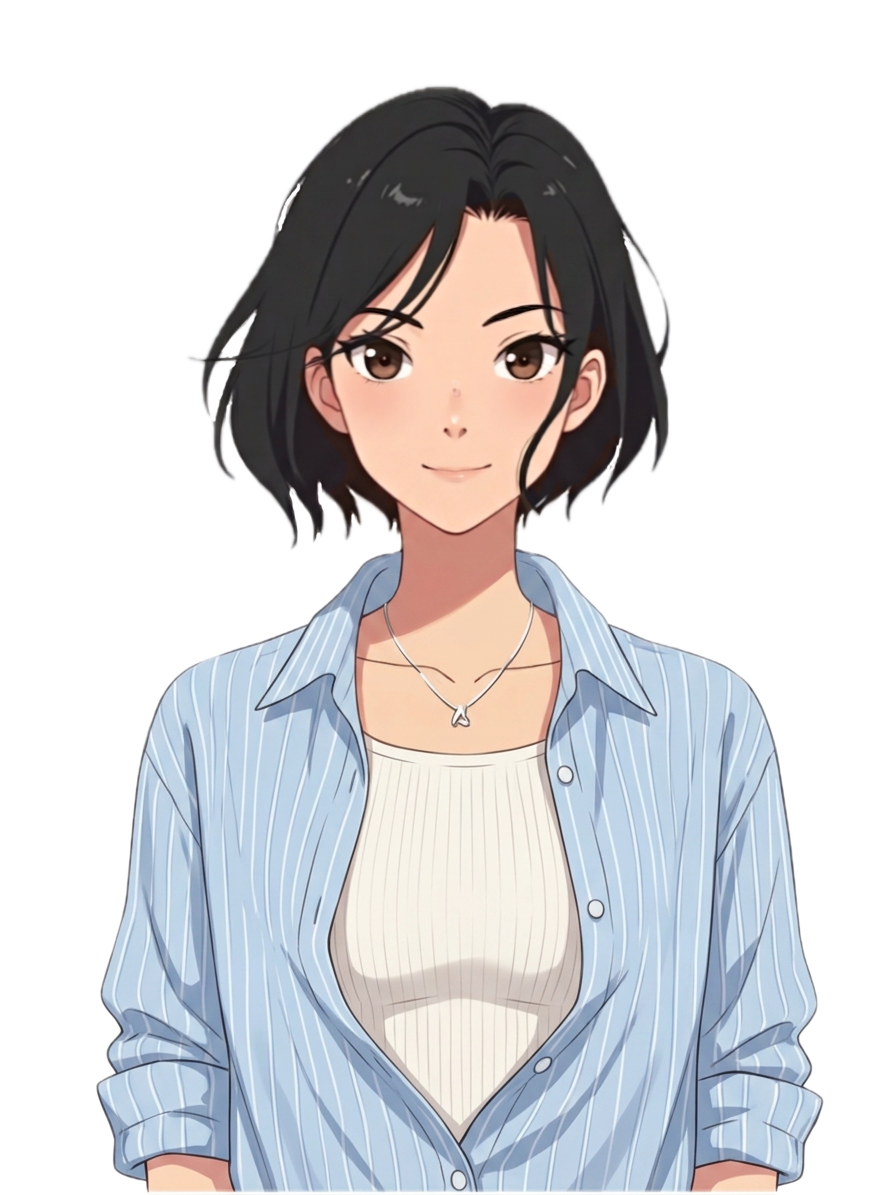
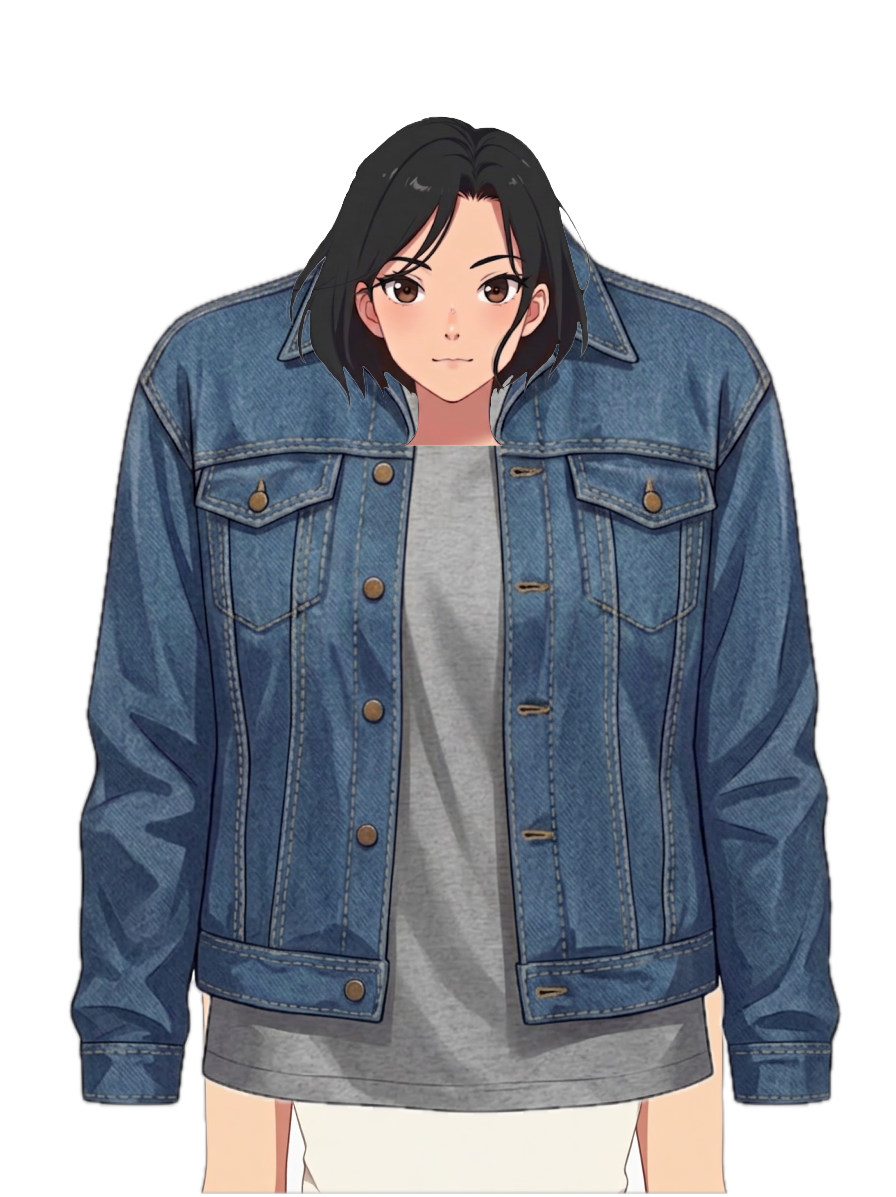
fix(qiqi): replace blue-shirt singleSprite with denim-jacket composite
Re-composited qiqi_full_base.png from qiqi_body + qiqi_clothes_jeans_jacket
+ qiqi_head layers (896×1197). The previous blue-shirt version had a white
background that rendered poorly on the dark char-intro card. Bump ?v=3
to bust browser cache.

diff --git a/public/index.html b/public/index.html
@@ -14958,7 +14958,7 @@
             val: '别见外啊，有事直接喊我！', quote: true },
         ],
         /* 单图立绘：头/衣/身已在源文件中合成为一张 RGBA PNG */
-        singleSprite: '/assets/characters/qiqi/qiqi_full_base.png?v=2',
+        singleSprite: '/assets/characters/qiqi/qiqi_full_base.png?v=3',
         /* 小头像仍单独使用 qiqi_head.png（context-panel / sentence-box / DLP / _plpSpeakerMeta）*/
         head:    '/assets/characters/qiqi/qiqi_head.png?v=2',
       },
